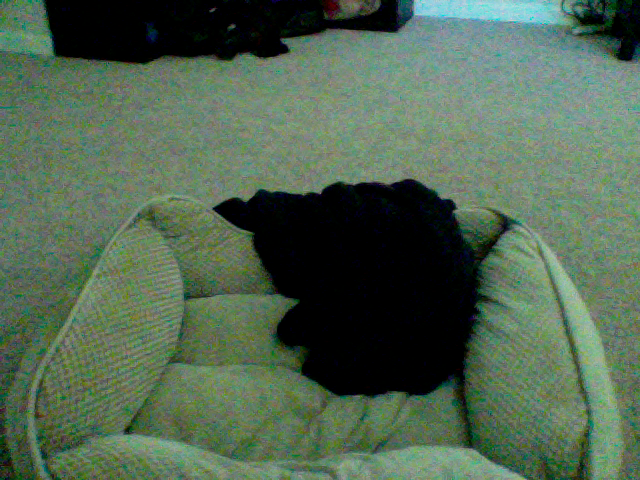
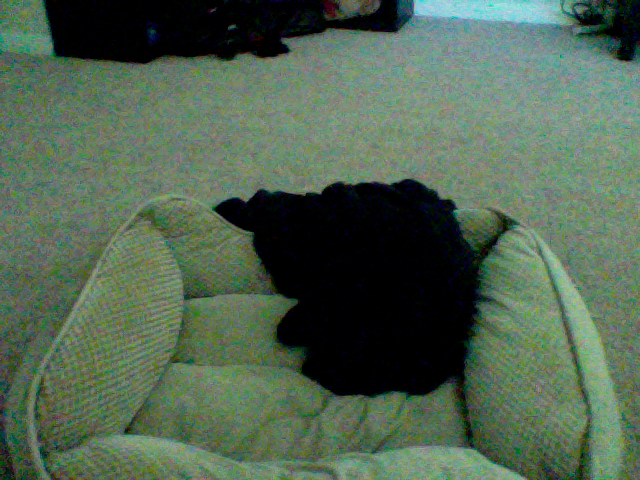
update at Month05Day08Time17:28

diff --git a/index.html b/index.html
@@ -39,8 +39,8 @@
       <!-- Example row of columns -->
       <div class="row">
         <div class="col-md-4">
-	<p>This picture was updated at Month05Day08Time17:27</p>
-		<img src="4_pic.png" />
+	<p>This picture was updated at Month05Day08Time17:28</p>
+		<img src="3_pic.png" />
         </div>
       </div>
 
